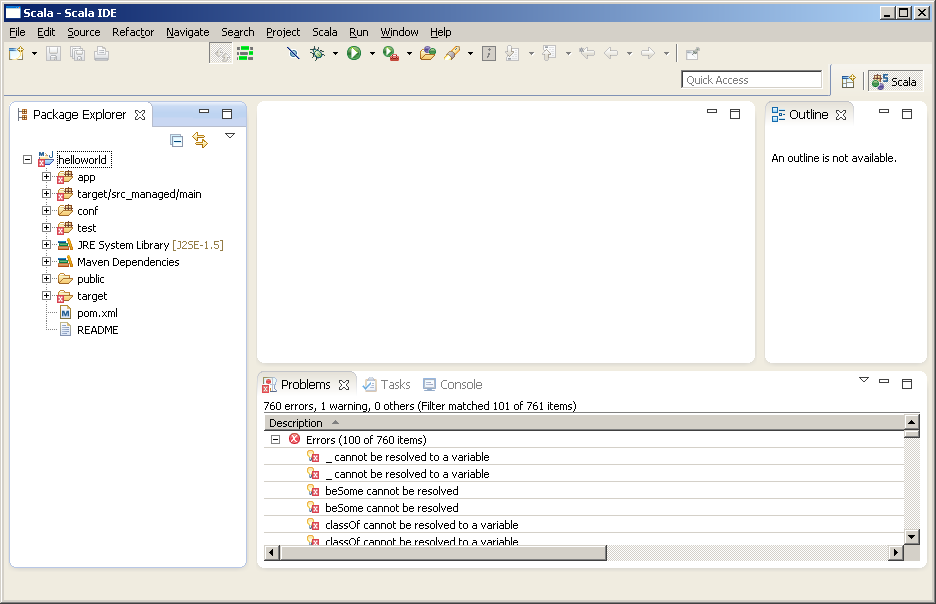
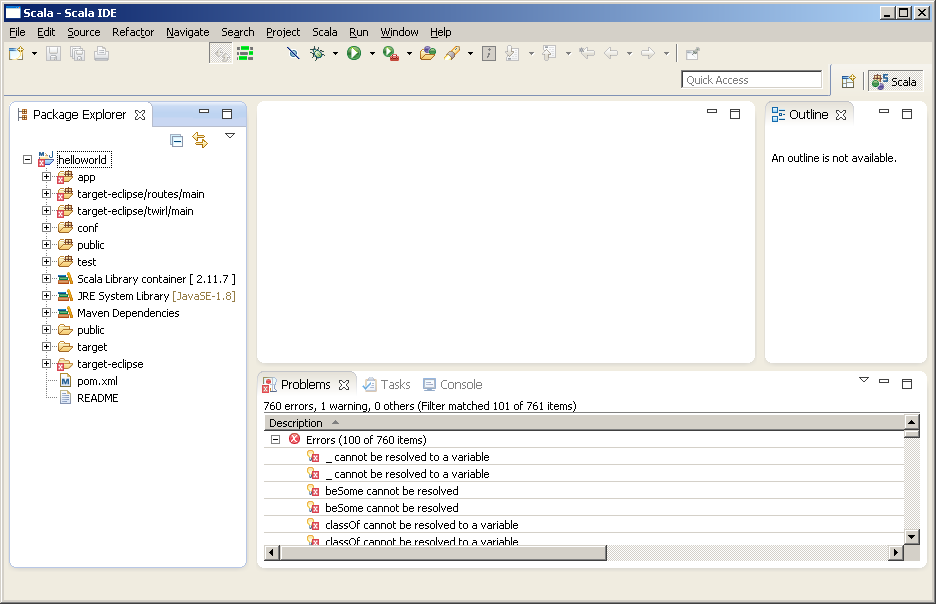
#96 - Improve documentation.

Changed region(s): [[0.031, 0.298, 0.2479, 0.6854]]

diff --git a/src/site/markdown/ide-integration-eclipse.md b/src/site/markdown/ide-integration-eclipse.md
@@ -2,18 +2,32 @@
 
 Use [Scala IDE bundle](http://scala-ide.org/download/sdk.html) or [add Scala IDE plugin](http://scala-ide.org/download/current.html) to your existing Eclipse installation.
 
-There is one problem with importing Play! project to Eclipse (as Maven project).
+Scala IDE is Eclipse bundle with Scala and Maven support out of the box.
 
-M2Eclipse does not treat such project as Java project, because `maven-compiler-plugin`'s `compile` and `testCompile`
-mojos are not part of `play2` packaging lifecycle (`sbt-compiler-maven-plugin`'s `compile` and `testCompile` mojos are used instead).
+### 1. Preparation
 
-A workaround is required (or a proper Eclipse plugin, which will be implemented later).
+Play! Framework project must be a Scala project (must have Scala nature) in Eclipse.
+For Eclipse project to be Scala project it has to be Java project first.
 
-Import steps:
+M2Eclipse (Eclipse plugin for Maven integration) analyzes Maven project
+and treats it as a Java project only if it has `maven-compiler-plugin`
+with `default-compile` and `default-testCompile` executions in it's build.
 
-### 1. A workaround
+This condition is met for `jar`, `war`, `ejb` and some other packagings, but not for `play2`
+because `play2` projects use `sbt-compiler-maven-plugin` instead of `maven-compiler-plugin`.
 
-Add this code snipped to project's `pom.xml` file:
+In order to make M2Eclipse properly import and configure `play2` project, fake `maven-compiler-plugin`
+plugin configuration has to be added. It should be done in separate profile, used only inside Eclipse.
+
+There is one more problem with Eclipse integration. Using the same classes location (`target/classes`)
+by Eclipse and Maven (or SBT) from command line at the same time leads to problems.
+Scala IDE uses `.cache-main` file for storing incremental compilation informations.
+Maven uses `target/cache/compile` file.
+Using different control files by different Scala compilers for the same source and target locations simultaniously or alternately causes problems. The solution is to define different output directory for Eclipse.
+
+Additionally, `source` and `target` compilation parameters in `maven-compiler-plugin` are used to set source and generated .class files compatibility levels in `Java Compiler` page of project properties.
+
+Necessary `pom.xml` code snipped with `eclipse` profile is presented below:
 
 ```
     <profiles>
@@ -21,6 +35,8 @@ Add this code snipped to project's `pom.xml` file:
             <id>eclipse</id>
 
             <build>
+                <directory>${project.basedir}/target-eclipse</directory>
+
                 <plugins>
                     <plugin>
                         <groupId>org.apache.maven.plugins</groupId>
@@ -28,6 +44,8 @@ Add this code snipped to project's `pom.xml` file:
                         <configuration>
                             <skipMain>true</skipMain>
                             <skip>true</skip>
+                            <source>1.6</source> <!-- 1.8 for Play! 2.5+ -->
+                            <target>1.6</target> <!-- 1.8 for Play! 2.5+ -->
                         </configuration>
                         <executions>
                             <execution>
@@ -46,10 +64,7 @@ Add this code snipped to project's `pom.xml` file:
     </profiles>
 ```
 
-This adds `eclipse` profile with `maven-compiler-plugin`'s `compile` and `testCompile` mojos.
-
-This profile is intended to be used exclusively by Eclipse. Don't use it when building with Maven from command line (it would unnecessarily slow down the build).
-Inside Eclipse it will do nothing during compilation, but this is enough to properly recognize imported project as Java project.
+This profile is intended to be used exclusively by Eclipse. Don't use it when building with Maven from command line.
 
 ### 2. Import the project as Maven project.
 
@@ -79,4 +94,4 @@ After adding Scala Nature, Eclipse recompiles the project.
 
 There are no errors in the project anymore.
 
-On the above picture you can see routes and templates files generated by the plugin in `target/src_managed/main` directory.
+On the above picture you can see routes and templates files generated by the plugin in `target-eclipse/routes/main` and `target-eclipse/twirl/main` directories.
